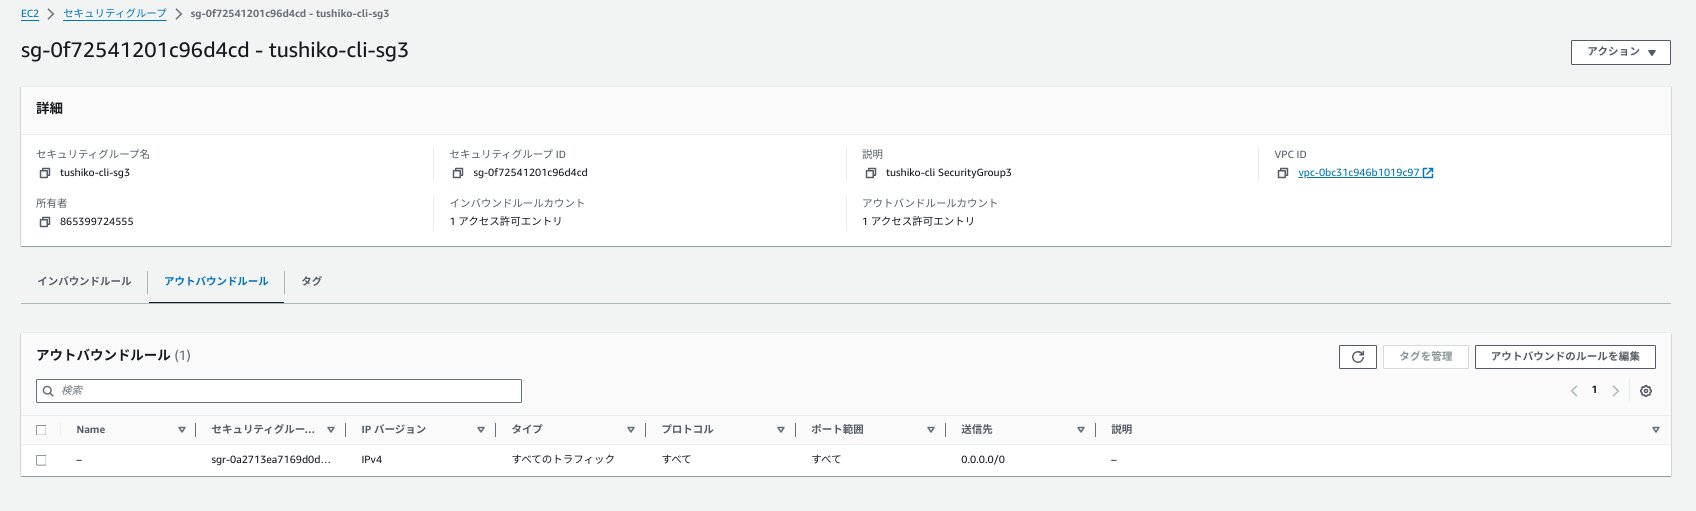
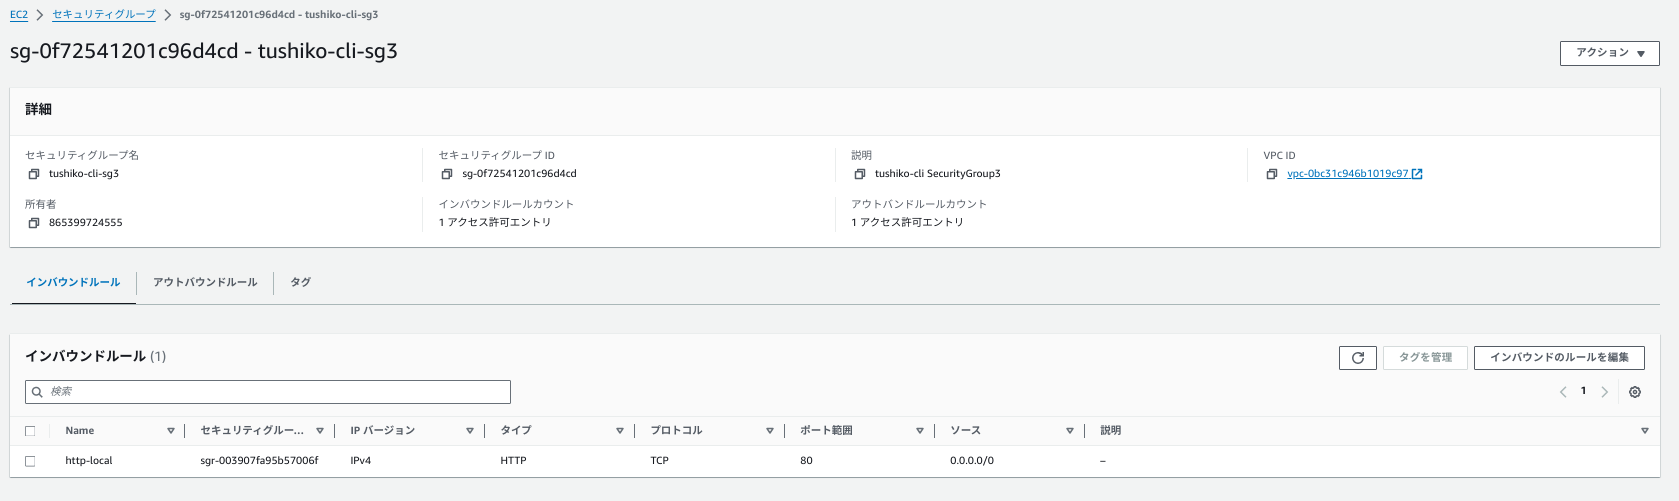
sg3

diff --git a/cLI-command/cli-command-operation-2.md b/cLI-command/cli-command-operation-2.md
@@ -1,0 +1,383 @@
+# CLIにて第5回課題環境を構築するPart.2
+
+セキュリティグループを作成 (EC2用、RDS用、ALB用)
+* アウトバウンド"すべてのトラフィック"と"0.0.0.0/0"は自動生成のため省略
+
+|構築するセキュリティグループの名称|用途|
+| ---- | ---- | 
+|tushiko-cli-sg1|EC2 |
+|tushiko-cli-sg2|RDS|
+|tushiko-cli-sg3|ALB |
+
+#### EC2のセキュリティグループ
+インバウンド
+|タイプ|プロトコル|ポート範囲|ソース|
+| ---- | ---- | ---- | ---- |
+|HTTP|TCP|80|0.0.0.0/0|
+|SSH|TCP|22|マイIPアドレス|
+
+アウトバウンド
+|タイプ|プロトコル|ポート範囲|ソース|
+| ---- | ---- | ---- | ---- |
+|すべてのトラフィック|すべて|すべて|0.0.0.0/0|
+
+#### RDSのセキュリティグループ
+インバウンド
+|タイプ|プロトコル|ポート範囲|ソース|
+| ---- | ---- | ---- | ---- |
+|MYSQL/Aurora|TCP|3306|EC2のセキュリティグループ|
+
+アウトバウンド
+|タイプ|プロトコル|ポート範囲|ソース|
+| ---- | ---- | ---- | ---- |
+|すべてのトラフィック|すべて|すべて|0.0.0.0/0|
+
+#### ALBのセキュリティグループ
+インバウンド
+|タイプ|プロトコル|ポート範囲|ソース|
+| ---- | ---- | ---- | ---- |
+|HTTP|TCP|80|0.0.0.0/0|
+
+アウトバウンド
+|タイプ|プロトコル|ポート範囲|ソース|
+| ---- | ---- | ---- | ---- |
+|すべてのトラフィック|すべて|すべて|0.0.0.0/0|
+
+## セキュリティグループを作成
+
+1. リージョンを環境変数に指定
+VPCを作成するリージョンを環境変数に指定します。この手順では東京リージョンを指定します。
+```
+export AWS_DEFAULT_REGION='ap-northeast-1'
+```
+2. 各種変数の指定
+"VPCタグ名"、"セキュリティグループ名"、"セキュリティグループの説明"、"VPC ID"を変数に入れます。
+
+* ①VPCタグ名を設定。
+```
+#自身で設定するVPCを設定
+EC2_VPC_TAG_NAME='tushiko-cli-vpc'
+```
+* ②セキュリティグループ名を設定
+```
+#自身で設定する"sg"を設定
+EC2_SECURITY_GROUP_NAME='tushiko-cli-sg1'
+```
+
+* ③セキュリティグループの説明を設定
+```
+#自身で判別のため任意の説明を設定
+EC2_SECURITY_GROUP_DESCRIPTION='tushiko-cli SecurityGroup1'
+```
+* ④VPC IDを設定
+```
+EC2_VPC_ID=$( \
+  aws ec2 describe-vpcs \
+   --filters Name=tag:Name,Values=${EC2_VPC_TAG_NAME}  \
+   --query 'Vpcs[].VpcId' \
+   --output text \
+) \
+&& echo ${EC2_VPC_ID}
+
+vpc-XXXXXXXXXXXXXXXXX
+```
+
+3. セキュリティグループ作成
+以下のコマンドを実行して、セキュリティグループを作成します。
+```
+aws ec2 create-security-group \
+--group-name ${EC2_SECURITY_GROUP_NAME} \
+--description "${EC2_SECURITY_GROUP_DESCRIPTION}" \
+--vpc-id ${EC2_VPC_ID}
+```
+成功したら以下のように表示されます。
+```
+{
+    "GroupId": "sg-XXXXXXXXXXXXXXXXX"
+}
+```
+
+4. 作成確認
+
+以下のコマンドを実行して、セキュリティグループが正しく作成されたことを確認します。
+
+指定のセキュリティグループ名とVPC IDで抽出したJSONから、セキュリティグループのグループ名をテキスト形式で表示させます。
+```
+aws ec2 describe-security-groups \
+  --filters Name=vpc-id,Values=${EC2_VPC_ID} \
+            Name=group-name,Values=${EC2_SECURITY_GROUP_NAME} \
+  --query 'SecurityGroups[].GroupName' \
+  --output text
+```
+
+コンソールにて確認
+![](../images/securitygroup/sg1-1.png)
+![](../images/securitygroup/sg1-2.png)
+
+## 作成したセキュリティグループにルールを追加する
+今回は、EC2用の"sg-tushiko-cli-sg1"に下記のルールを追加します。
+
+インバウンド
+|タイプ|プロトコル|ポート範囲|ソース|
+| ---- | ---- | ---- | ---- |
+|HTTP|TCP|80|0.0.0.0/0|
+|SSH|TCP|22|マイIPアドレス|
+
+#### HTTP:80番ポート  0.0.0.0/0を追加
+
+1. リージョンを環境変数に指定
+
+VPCを作成するリージョンを環境変数に。ここでは、東京リージョンを指定。
+
+```
+export AWS_DEFAULT_REGION='ap-northeast-1'
+```
+
+2. 各種変数の指定
+
+* ①VPCタグ名を設定
+```
+EC2_VPC_TAG_NAME='tushiko-cli-vpc'
+```
+* ②セキュリティグループ名を設定
+```
+EC2_SECURITY_GROUP_NAME='tushiko-cli-sg1'
+```
+* ③ルールのタグ名を設定
+```
+EC2_SECURITY_GROUP_RULE_TAG_NAME='http-local'
+```
+* ➃セキュリティグループタグ文字列を設定
+```
+STRING_EC2_EC2_SECURITY_GROUP_RULE_TAG="ResourceType=security-group-rule,Tags=[{Key=Name,Value=${EC2_SECURITY_GROUP_RULE_TAG_NAME}}]" \
+  && echo ${STRING_EC2_EC2_SECURITY_GROUP_RULE_TAG}
+```
+
+* ⑤プロトコルの設定
+```
+EC2_SECURITY_GROUP_RULE_PROTOCOL='tcp'
+```
+
+* ⑥ポート番号の設定
+```
+EC2_SECURITY_GROUP_RULE_PORT='80'
+```
+
+* ⑦配置する"VPC ID"の設定
+```
+EC2_VPC_ID=$( \
+  aws ec2 describe-vpcs \
+   --filters Name=tag:Name,Values=${EC2_VPC_TAG_NAME}  \
+   --query 'Vpcs[].VpcId' \
+   --output text \
+) \
+&& echo ${EC2_VPC_ID}
+
+vpc-XXXXXXXXXXXXXXXXX
+```
+
+* ⑧セキュリティグループIDを設定
+```
+EC2_SECURITY_GROUP_ID=$( \
+  aws ec2 describe-security-groups \
+    --filters Name=vpc-id,Values=${EC2_VPC_ID} \
+      Name=group-name,Values=${EC2_SECURITY_GROUP_NAME} \
+    --query "SecurityGroups[].GroupId" \
+    --output text \
+) \
+&& echo ${EC2_SECURITY_GROUP_ID}
+#追加したいsg-idが出ることを確認
+sg-0xxxxxxxxxXXXXXXX
+```
+* ⑨CIDRブロックを設定
+```
+EC2_SECURITY_GROUP_RULE_CIDR="0.0.0.0/0"
+echo ${EC2_SECURITY_GROUP_RULE_CIDR}
+```
+
+3. ルール追加
+
+以下のコマンドを実行します。
+```
+aws ec2 authorize-security-group-ingress \
+  --group-id ${EC2_SECURITY_GROUP_ID} \
+  --protocol ${EC2_SECURITY_GROUP_RULE_PROTOCOL} \
+  --port ${EC2_SECURITY_GROUP_RULE_PORT} \
+  --cidr ${EC2_SECURITY_GROUP_RULE_CIDR} \
+  --tag-specifications ${STRING_EC2_EC2_SECURITY_GROUP_RULE_TAG}
+```
+
+成功すると以下のように表示。
+```
+{
+    "Return": true,
+    "SecurityGroupRules": [
+        {
+            "SecurityGroupRuleId": "sg-0xxxxxxxxxXXXXXXX",
+            "GroupId": "sg-XXXXXXxXXXXXXXXXX",
+            "GroupOwnerId": "XXXXXXXXXXXX",
+            "IsEgress": false,
+            "IpProtocol": "tcp",
+            "FromPort": 80,
+            "ToPort": 80,
+            "CidrIpv4": "0.0.0.0/0",
+            "Tags": [
+                {
+                    "Key": "Name",
+                    "Value": "http-local"
+                }
+            ]
+        }
+    ]
+}
+```
+
+* 間違えてルールを追加したり、不要なルールを削除したい場合は、以下のコマンドを実行する。
+```
+#インバウンドのsgを削除
+aws ec2 revoke-security-group-ingress \
+  --group-id ${EC2_SECURITY_GROUP_ID} \
+  --protocol ${EC2_SECURITY_GROUP_RULE_PROTOCOL} \
+  --port ${EC2_SECURITY_GROUP_RULE_PORT} \
+  --cidr ${EC2_SECURITY_GROUP_RULE_CIDR}
+```
+* 作成時に使用した --tag-specifications オプションはサポートしていないため、コメントアウトして使用する。
+
+さらに、"tushiko-cli-sg1"にインバウンドルール"22番ポート""マイIPルール"を追加する
+
+* ①・②は上記と同じ。
+* ③ルールのタグ名を設定
+```
+#httpからsshに変更
+EC2_SECURITY_GROUP_RULE_TAG_NAME='ssh-local'
+```
+* ④・⑤は上記と同じ
+* ⑥ポート番号の設定
+```
+#80番から22番に変更
+EC2_SECURITY_GROUP_RULE_PORT='22'
+```
+
+* ⑦・⑧は上記と同じ
+* ⑨許可ソースを"マイIP"にする
+```
+EC2_SECURITY_GROUP_RULE_CIDR=$( curl -s http://checkip.amazonaws.com/ )/32 \
+&& echo ${EC2_SECURITY_GROUP_RULE_CIDR}
+#出力値がマイIPになっているか確認
+×××.×××.×××.×××/32
+```
+
+上記の通り、"3. ルール追加"を再度実施
+```
+aws ec2 authorize-security-group-ingress \
+  --group-id ${EC2_SECURITY_GROUP_ID} \
+  --protocol ${EC2_SECURITY_GROUP_RULE_PROTOCOL} \
+  --port ${EC2_SECURITY_GROUP_RULE_PORT} \
+  --cidr ${EC2_SECURITY_GROUP_RULE_CIDR} \
+  --tag-specifications ${STRING_EC2_EC2_SECURITY_GROUP_RULE_TAG}
+```
+
+コンソールにて確認
+![](../images/securitygroup/sg1-3.png)
+![](../images/securitygroup/sg1-2.png)
+
+### セキュリティグループRDS用に"tushiko-cli-sg2"、ALB用に"tushiko-cli-sg3"を作成する
+
+#### RDSのセキュリティグループ
+インバウンド
+|タイプ|プロトコル|ポート範囲|ソース|
+| ---- | ---- | ---- | ---- |
+|MYSQL/Aurora|TCP|3306|EC2のセキュリティグループ|
+
+1. リージョンを環境変数に指定
+VPCを作成するリージョンを環境変数に指定。この手順では東京リージョンを指定。
+```
+export AWS_DEFAULT_REGION='ap-northeast-1'
+```
+
+2. 各種変数の指定
+
+* ①VPCタグ名
+```
+EC2_VPC_TAG_NAME='tushiko-cli-vpc'
+```
+* ②セキュリティグループ名
+```
+EC2_SECURITY_GROUP_NAME='tushiko-cli-sg2'
+```
+* ③ルールのタグ名
+```
+EC2_SECURITY_GROUP_RULE_TAG_NAME='MYSQL/Aurora-local'
+```
+* ④セキュリティグループタグ文字列
+```
+STRING_EC2_EC2_SECURITY_GROUP_RULE_TAG="ResourceType=security-group-rule,Tags=[{Key=Name,Value=${EC2_SECURITY_GROUP_RULE_TAG_NAME}}]" \
+  && echo ${STRING_EC2_EC2_SECURITY_GROUP_RULE_TAG}
+```
+
+* ⑤プロトコル
+```
+EC2_SECURITY_GROUP_RULE_PROTOCOL='tcp'
+```
+* ⑥ポート番号
+```
+EC2_SECURITY_GROUP_RULE_PORT='3306'
+```
+* ⑦VPC ID
+```
+EC2_VPC_ID=$( \
+  aws ec2 describe-vpcs \
+   --filters Name=tag:Name,Values=${EC2_VPC_TAG_NAME}  \
+   --query 'Vpcs[].VpcId' \
+   --output text \
+) \
+&& echo ${EC2_VPC_ID}
+#設定したい"vpc-id"と一致するか確認
+vpc-XXXXXXXXXXXXXXXXX
+```
+
+* ⑧セキュリティグループID
+```
+EC2_SECURITY_GROUP_ID=$( \
+  aws ec2 describe-security-groups \
+    --filters Name=vpc-id,Values=${EC2_VPC_ID} \
+      Name=group-name,Values=${EC2_SECURITY_GROUP_NAME} \
+    --query "SecurityGroups[].GroupId" \
+    --output text \
+) \
+&& echo ${EC2_SECURITY_GROUP_ID}
+
+#設定したいsgのidが一致しているか確認
+sg-0xxxxxxxxxXXXXXXX
+```
+* ⑨許可ソースをEC2のsgを許可するように変数を設定する。
+```
+# セキュリティグループのID（3306ポートを許可するEC2用に作成したセキュリティグループID）
+EC2_SOURCE_SECURITY_GROUP_ID='sg-xxxxxxxx'
+```
+
+3. 以下のコマンドを実行
+```
+#5行目”--cidr ${EC2_SECURITY_GROUP_RULE_CIDR}"を
+"--source-group ${EC2_SOURCE_SECURITY_GROUP_ID}"に変更
+
+aws ec2 authorize-security-group-ingress \
+  --group-id ${EC2_SECURITY_GROUP_ID} \
+  --protocol ${EC2_SECURITY_GROUP_RULE_PROTOCOL} \
+  --port ${EC2_SECURITY_GROUP_RULE_PORT} \
+  --source-group ${EC2_SOURCE_SECURITY_GROUP_ID} \
+  --tag-specifications ${STRING_EC2_EC2_SECURITY_GROUP_RULE_TAG}
+```
+
+セキュリティグループが設定されているかを確認
+
+コンソール上でも確認。
+![](../images/securitygroup/sg2-1.png)
+![](../images/securitygroup/sg2-2.png)
+
+ALBのセキュリティグループに関しては上記の工程を繰り返し実施することで作成。
+* セキュリティグループ名"tushiko-cli-sg3”で作成
+
+コンソール上でも確認。
+![](../images/securitygroup/sg3-1.png)
+![](../images/securitygroup/sg3-2.png)
